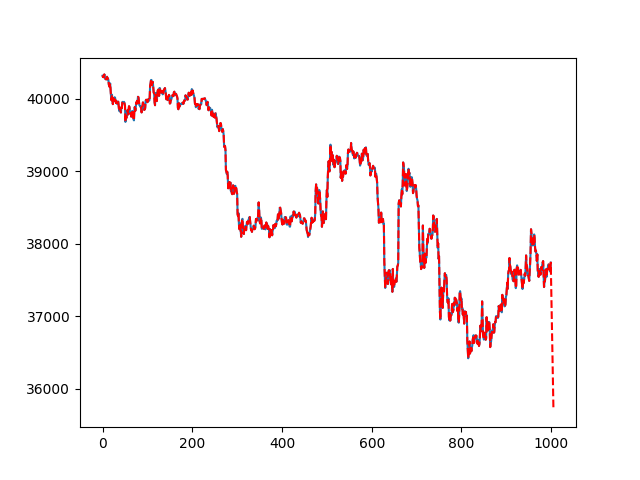
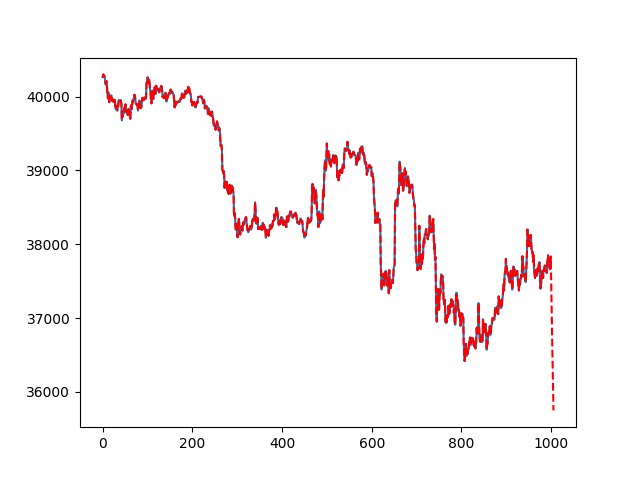
committed

diff --git a/main.py b/main.py
@@ -57,7 +57,7 @@ def get_data():
     return np.array(times), np.array(prices).astype(np.float64)
 
 def predict():
-    p = 5 
+    p = 1 
     _, ts = get_data()
 
     preds = LM(ts, p)
@@ -69,29 +69,29 @@ def get_price():
     return float(d['price'])
 
 def open_position():
-    global last_price
-    while True:
-        predPrice = predict()
-        price = get_price()
-        # long position
-        if predPrice > price and 1 - price/predPrice < profit:
-            try:
-                cache.buy(10.0)
-                return price
-            except Exception as e:
-                print(e)
-        time.sleep(10)
+    global BULL
+    predPrice = predict()
+    price = get_price()
+    # long position
+    if predPrice >= price:
+        BULL = True
+        print(f"up {predPrice} {price}")
+    else:
+        BULL = False 
+        print(f"down {predPrice} {price}")
+    time.sleep(SLEEP_DURATION)
+    return price
+        
 
-def close_position(buy_price):
-    while True:
-        price = get_price()
-        if price >= buy_price:
-            try:
-                cache.sell(cache.crypto)
-                return
-            except Exception as e:
-                print(e)
-        time.sleep(SLEEP_DURATION)
+def close_position(lastPrice):
+    global score
+    price = get_price()
+    if price >= lastPrice and BULL or price < lastPrice and not BULL:
+        score += 1
+        print(f"+ {price}")
+
+    if price < lastPrice and BULL or price >= lastPrice and not BULL:
+        print(f"- {price}")
 
 api_key = ''
 api_secret = ''
@@ -99,20 +99,19 @@ CURRENCY = 'BTC'
 PAIR = 'BTCUSDT'
 INTERVAL = Client.KLINE_INTERVAL_5MINUTE
 SUM = 11 # dollars
-SLEEP_DURATION = 10 # secs
+SLEEP_DURATION = 5 * 60 # secs
 
-# buffer
-last_price = None
-
+BULL = True
 profit = 0.003
 coms = 0.001
 
 client = Client(api_key, api_secret)
-   
+score = 0
+
 if __name__ == '__main__':
-    cache = Cache(SUM, coms)
-    print(f"{cache.dollars} $")
+    t = 0
     while True:
-        open_price = open_position()
-        close_position(open_price)
-        print(f"[bot] {cache.dollars} $")
+        lastPrice = open_position()
+        close_position(lastPrice)
+        t += 1
+        print(f"score {score} / {t}")
